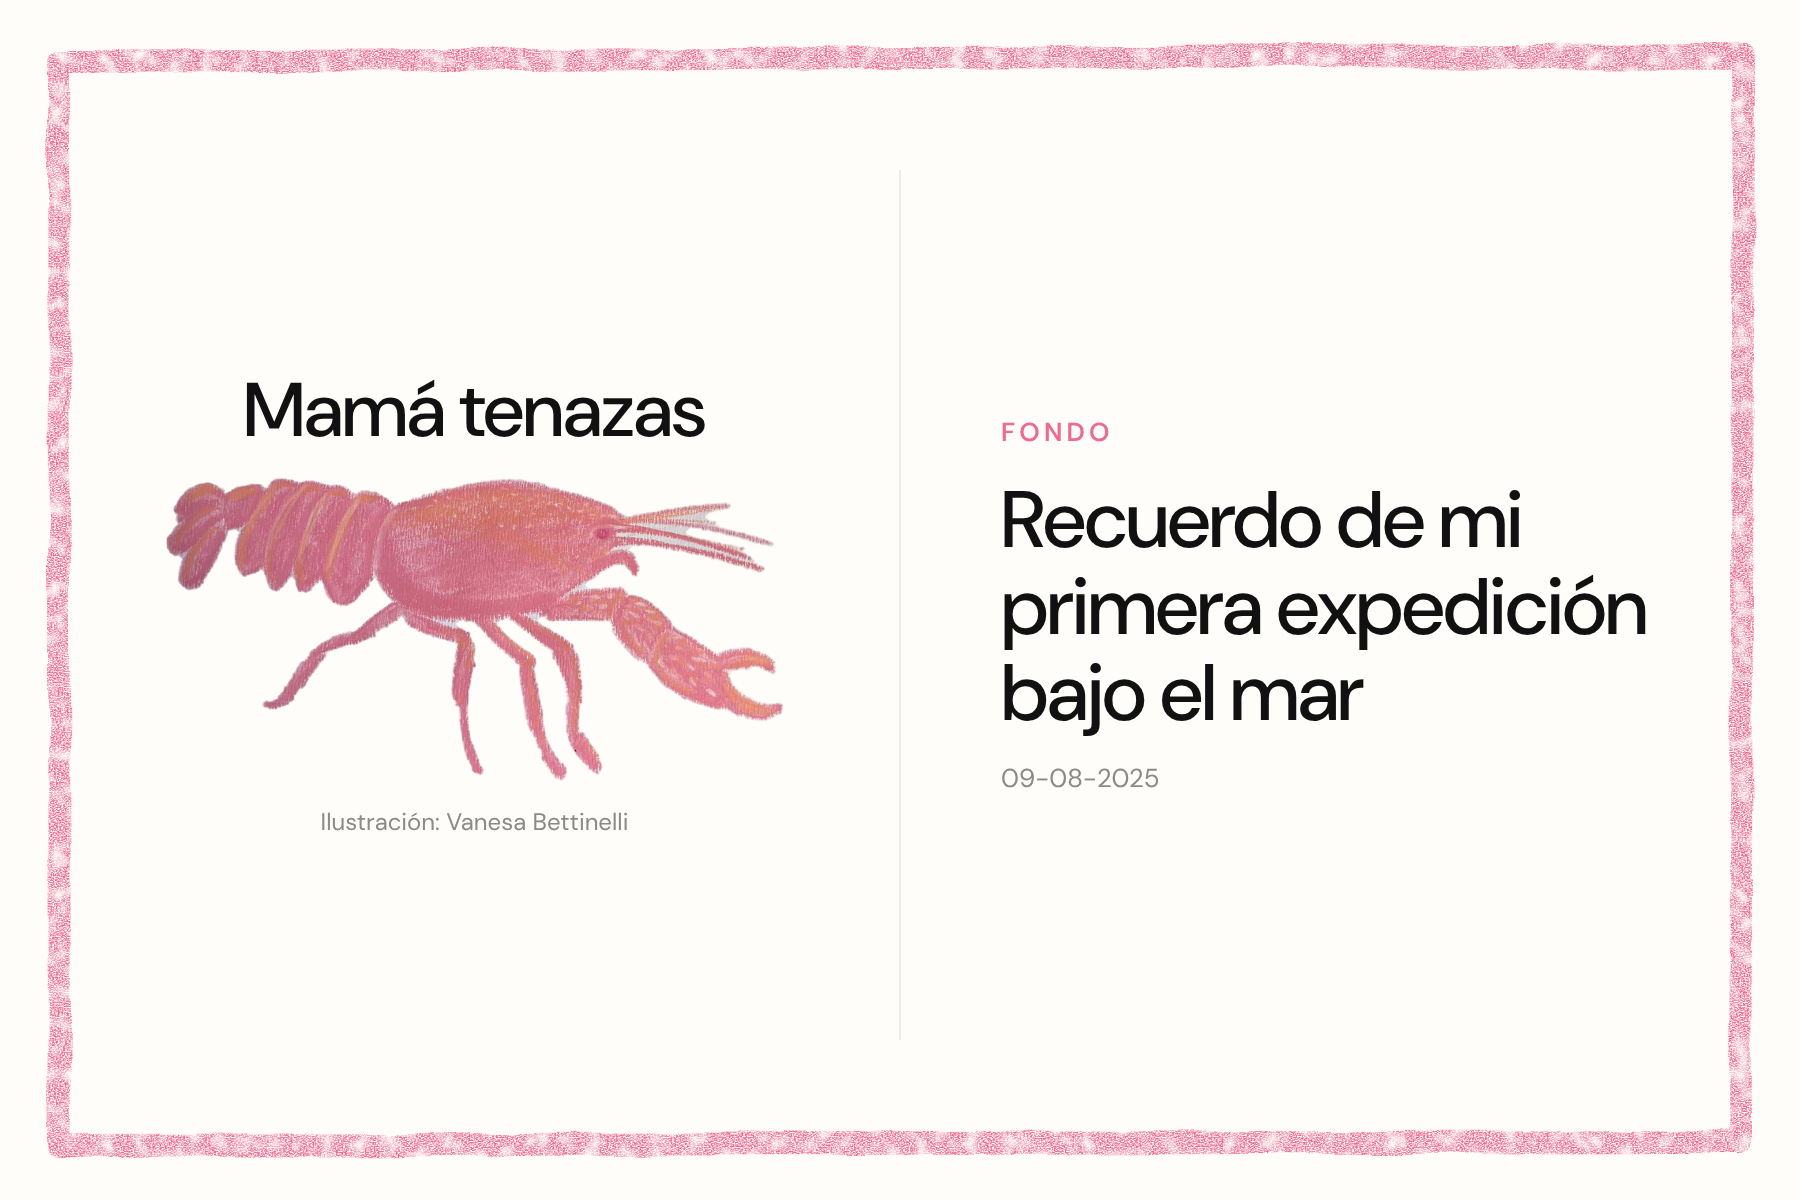
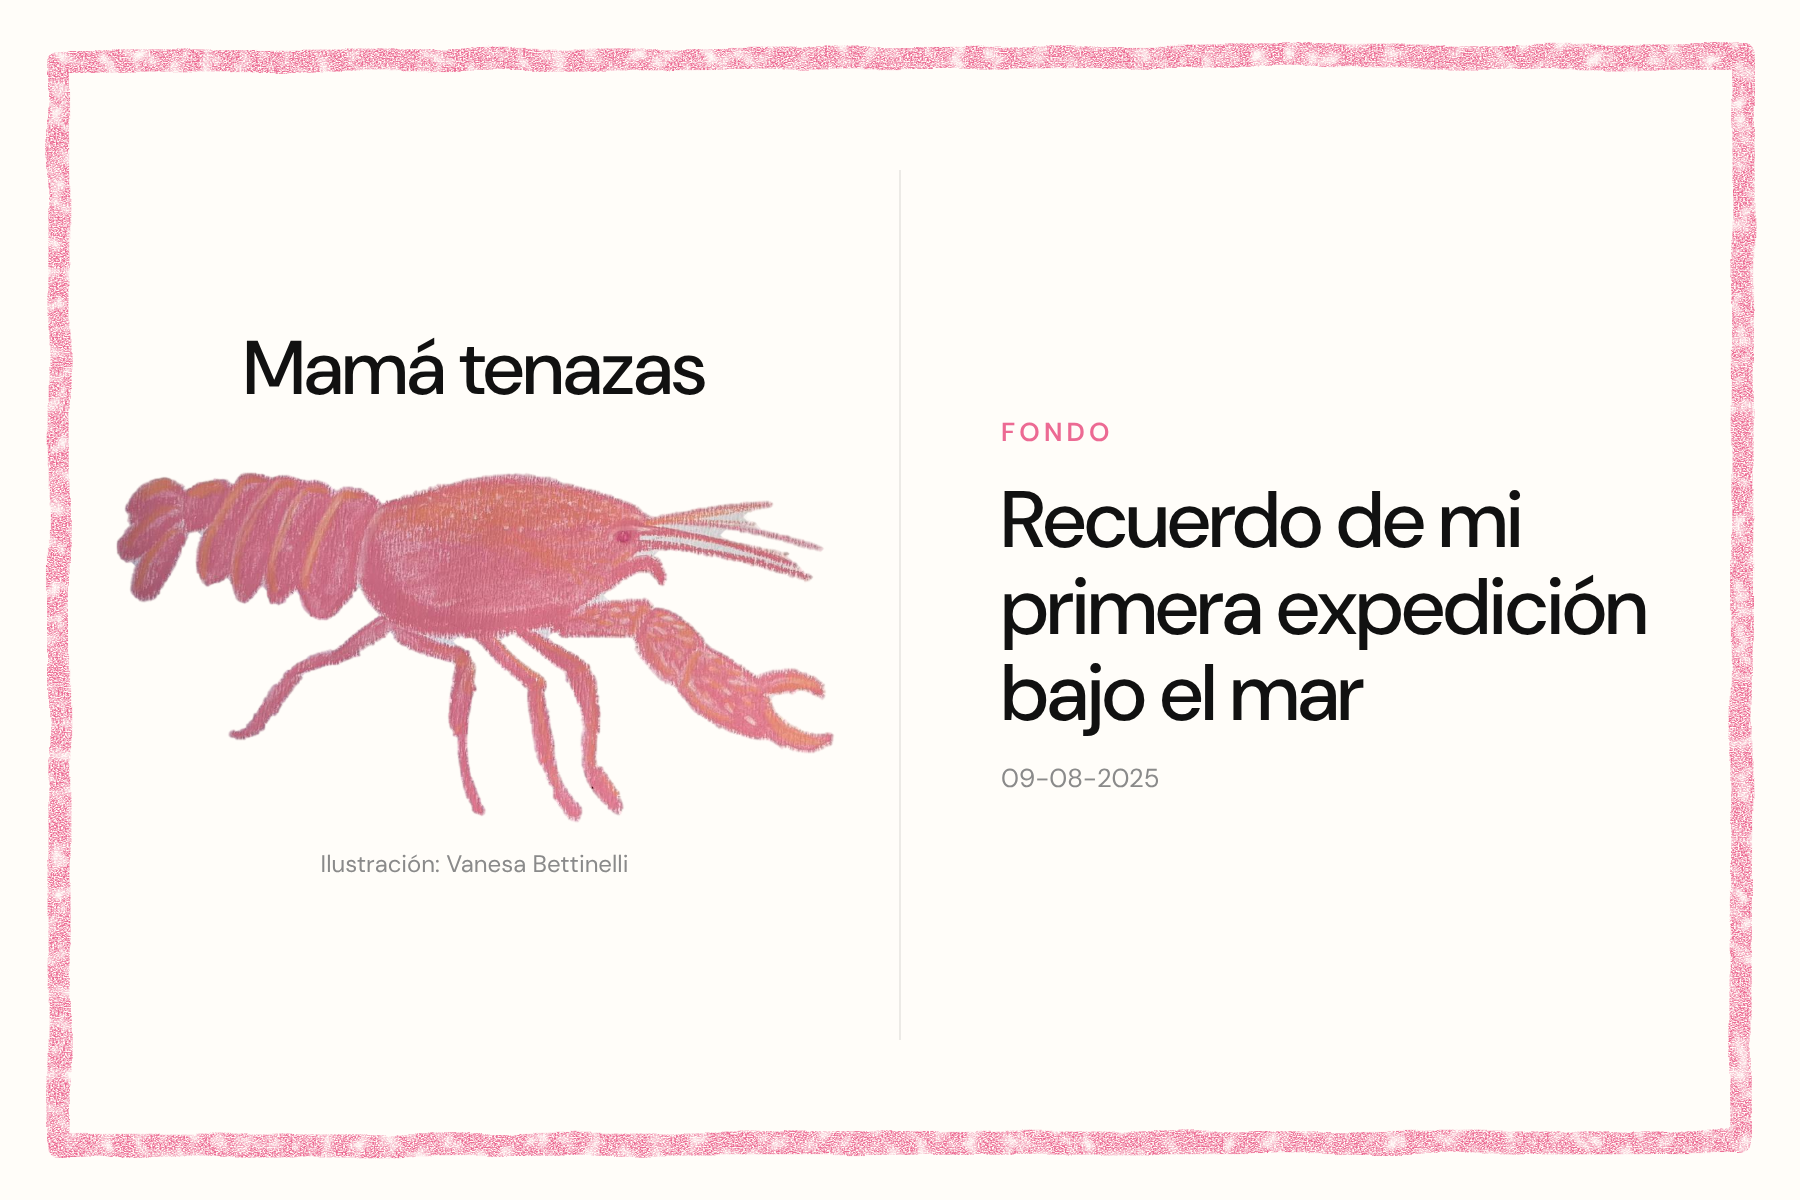
Postcards: more space under the name, larger Mamá tenazas
Claude-Session: https://claude.ai/code/session_01Qm5YFXMrmpHggq2K32ktW1

Changed region(s): [[0.0622, 0.2775, 0.4667, 0.74]]

diff --git a/bitacora-del-mar/postal-fuente.html b/bitacora-del-mar/postal-fuente.html
@@ -69,7 +69,9 @@
         nombre: "Mamá tenazas",
         fecha: "09-08-2025",
         ilustracion: "assets/mama-tenazas.png",
-        color: COLORES.rosa
+        color: COLORES.rosa,
+        // Opcional: ancho máximo de la ilustración (por defecto 620)
+        anchoIlustracion: 720
       }
     };
 
@@ -129,6 +131,7 @@
     /* Lado de la ilustración */
 
     .lado-ilustracion {
+      min-width: 0;
       display: flex;
       flex-direction: column;
       align-items: center;
@@ -145,7 +148,7 @@
     }
 
     .nombre {
-      margin: 0 0 28px;
+      margin: 0 0 64px;
 
       font-size: 76px;
       line-height: 1;
@@ -275,6 +278,9 @@
     });
 
     document.body.style.setProperty("--accent", POSTAL.color);
+    if (POSTAL.anchoIlustracion) {
+      document.querySelector(".lado-ilustracion img").style.maxWidth = POSTAL.anchoIlustracion + "px";
+    }
     document.querySelector(".crayon-stroke").setAttribute("stroke", POSTAL.color);
 
   </script>
